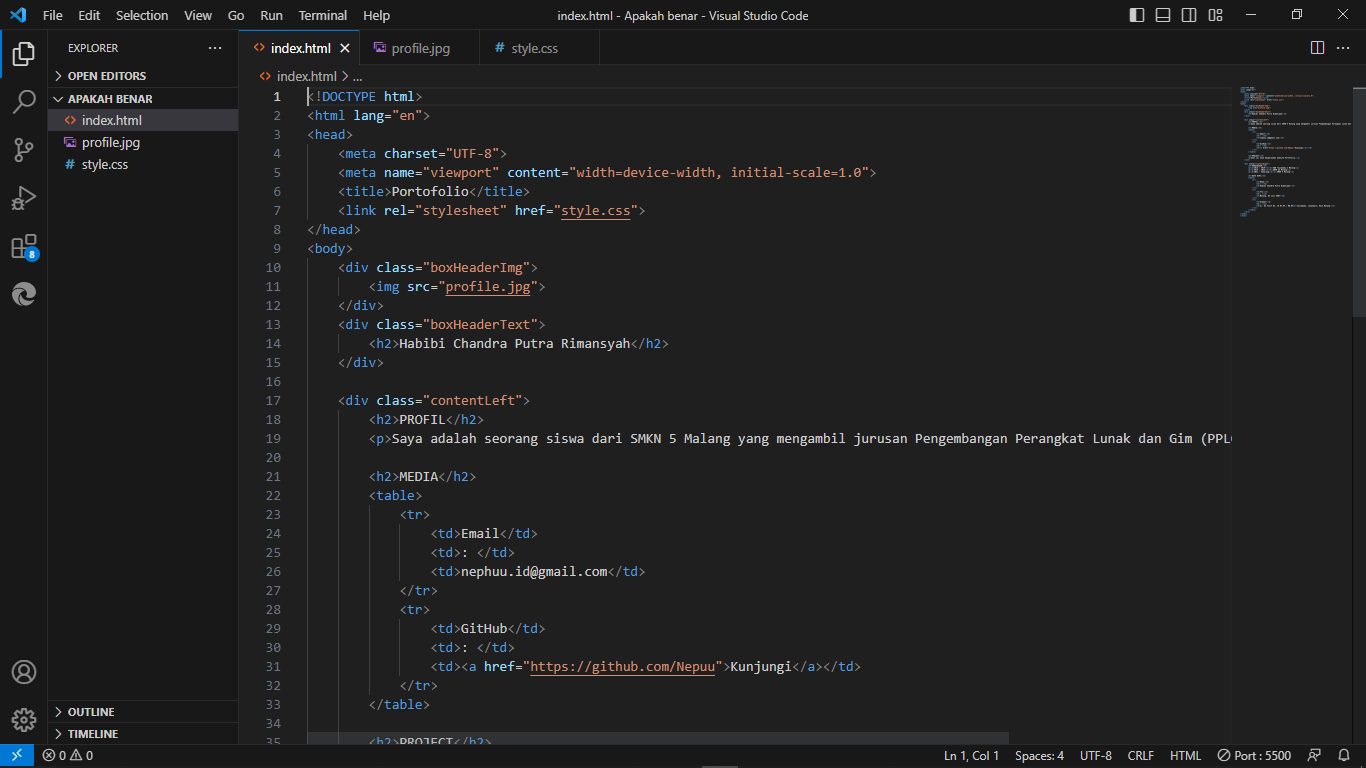
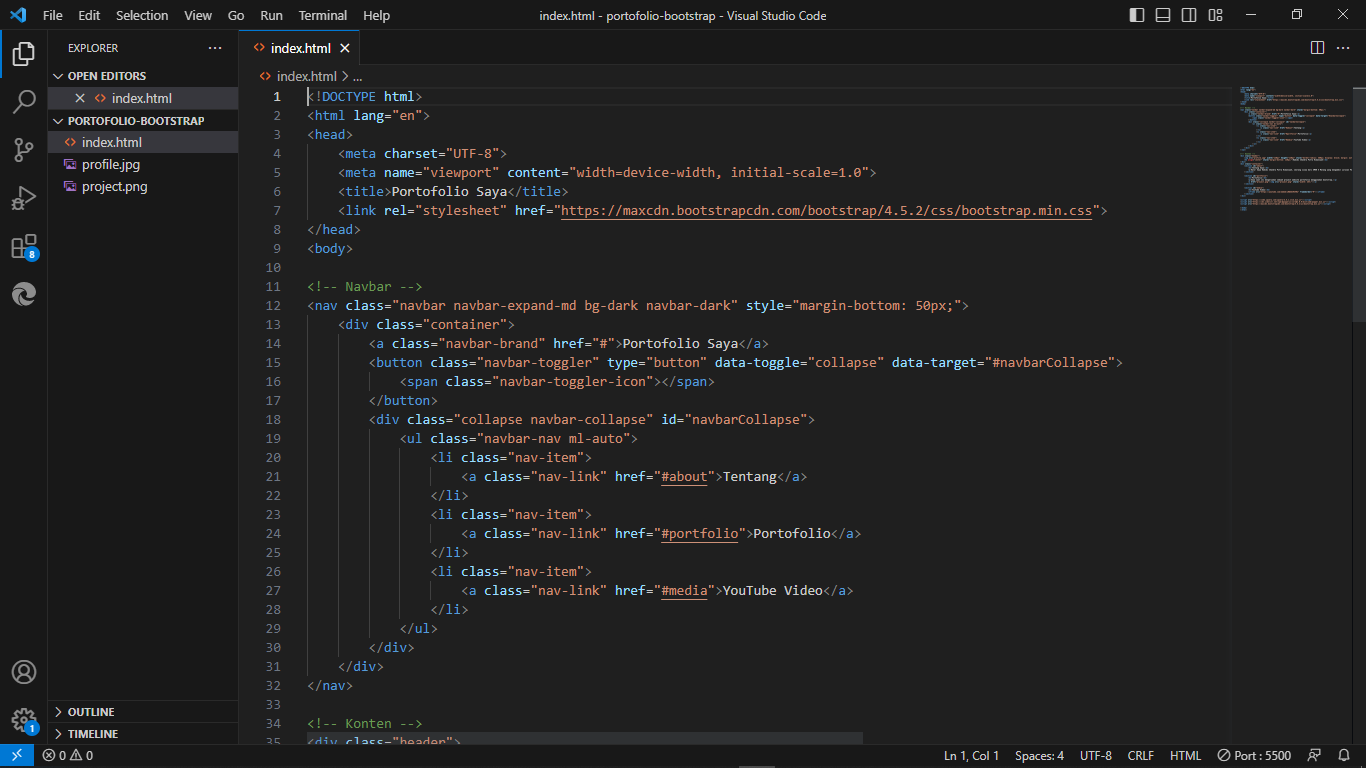
Add files via upload

diff --git a/index.html b/index.html
@@ -3,48 +3,47 @@
 <head>
     <meta charset="UTF-8">
     <meta name="viewport" content="width=device-width, initial-scale=1.0">
-    <title>Portofolio</title>
-    <link rel="stylesheet" href="style.css">
+    <title>Portofolio Saya</title>
+    <link rel="stylesheet" href="https://maxcdn.bootstrapcdn.com/bootstrap/4.5.2/css/bootstrap.min.css">
 </head>
 <body>
-    <div class="boxHeaderImg">
-        <img src="profile.jpg">
+
+<!-- Navbar -->
+<nav class="navbar navbar-expand-md bg-dark navbar-dark">
+    <div class="container">
+        <a class="navbar-brand" href="#">Portofolio Saya</a>
+        <button class="navbar-toggler" type="button" data-toggle="collapse" data-target="#navbarCollapse">
+            <span class="navbar-toggler-icon"></span>
+        </button>
+        <div class="collapse navbar-collapse" id="navbarCollapse">
+            <ul class="navbar-nav ml-auto">
+                <li class="nav-item">
+                    <a class="nav-link" href="#about">Tentang</a>
+                </li>
+                <li class="nav-item">
+                    <a class="nav-link" href="#portfolio">Portofolio</a>
+                </li>
+                <li class="nav-item">
+                    <a class="nav-link" href="#contact">Kontak</a>
+                </li>
+                <li class="nav-item" hidden>
+                    <a class="nav-link" href="#video">Video</a>
+                </li>
+            </ul>
+        </div>
     </div>
-    <div class="boxHeaderText">
-        <h2>Habibi Chandra Putra Rimansyah</h2>
-    </div>
+</nav>
 
-    <div class="contentLeft">
-        <h2>PROFIL</h2>
-        <p>Saya adalah seorang siswa dari SMKN 5 Malang yang mengambil jurusan Pengembangan Perangkat Lunak dan Gim (PPLG). Angkatan tahun 2022 / 2023.</p>
-
-        <h2>MEDIA</h2>
-        <table>
-            <tr>
-                <td>Email</td>
-                <td>: </td>
-                <td>nephuu.id@gmail.com</td>
-            </tr>
-            <tr>
-                <td>GitHub</td>
-                <td>: </td>
-                <td><a href="https://github.com/Nepuu">Kunjungi</a></td>
-            </tr>
-        </table>
-
-        <h2>PROJECT</h2>
-        <a href="project.png"><img src="project.png"></a>
-        <p>Saat ini saya mengerjakan website Portofolio.</p>
-    </div>
-
-    <div class="contentRight">
-        <h2>PENDIDIKAN</h2>
-        <p><b>2013 - 2019</b><br>SDN Tasikmadu 2 Malang</p>
-        <p><b>2019 - 2022</b><br>SMPN 26 Malang</p>
-        <p><b>2022 - Sekarang</b><br>SMKN 5 Malang</p>
-
-        <h2>DATA DIRI</h2>
-        <table>
+<!-- Konten -->
+<div class="header" style="margin-top: 50px;">
+    <img src="profile.jpg" width="120px" height="120px" style="padding: 5px; border: 2px solid; border-radius: 360px; display: block; margin: auto;">
+    <h2 align="center" style="margin-bottom: 120px;">Habibi Chandra Putra Rimansyah</h2>
+</div>
+<div class="container" style="margin-bottom: 150px;">
+    <section id="about">
+        <h2>Tentang Saya</h2>
+        <p>Halo! Saya Habibi Chandra Putra Rimansyah, seorang siswa dari SMKN 5 Malang yang mengambil jurusan Pengembangan Perangkat Lunak dan Gim (PPLG) Angkatan tahun 2022 / 2023.</p>
+        <table style="font-weight: bold;">
             <tr>
                 <td>Nama</td>
                 <td>: </td>
@@ -58,9 +57,32 @@
             <tr>
                 <td>Alamat</td>
                 <td>: </td>
-                <td>Jl. Kh Yusuf No. 18 RT.03 / RW.04<br>Tasikmadu, Lowokwaru, Kota Malang</td>
+                <td>Jl. Kh Yusuf No. 18 RT03 RW04 Tasikmadu Kec. Lowokwaru Malang</td>
             </tr>
         </table>
-    </div>
+    </section>
+
+    <section id="portfolio">
+        <h2>Portofolio</h2>
+        <p>Saya saat ini mengerjakan sebuah project website portofolio menggunakan bootstrap.</p>
+        <a href="project.png" style="margin-bottom: 50px;"><img src="project.png" style="width: 50%;"></a>
+    </section>
+
+    <section id="contact">
+        <h2 style="margin-top: 25px;">Kontak</h2>
+        <li>Email: nephuu.id@gmail.com</li>
+        <li>GitHub: <a href="https://github.com/Nepuu" style="color: dodgerblue;">Kunjungi</a></li>
+    </section>
+
+    <section id="video" hidden>
+        <h2>Video</h2>
+        <p>Berisi video yang telah saya unggah di akun YouTube saya.</p>
+    </section>
+</div>
+
+<script src="https://code.jquery.com/jquery-3.5.1.slim.min.js"></script>
+<script src="https://cdn.jsdelivr.net/npm/@popperjs/core@2.0.9/dist/umd/popper.min.js"></script>
+<script src="https://maxcdn.bootstrapcdn.com/bootstrap/4.5.2/js/bootstrap.min.js"></script>
+
 </body>
 </html>
